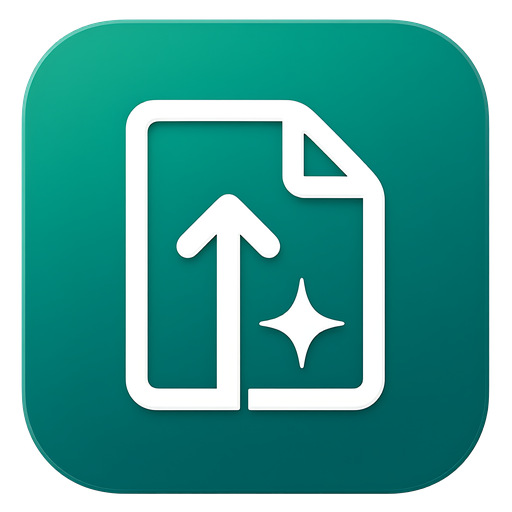
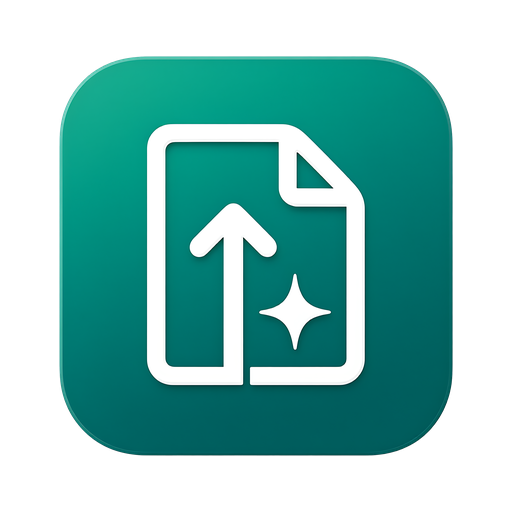
fix(T06016): 统一 11 张能力卡片图标内容区，修复卡片图标大小不一致

diff --git a/scripts/normalize-report-icons.py b/scripts/normalize-report-icons.py
@@ -1,0 +1,124 @@
+#!/usr/bin/env python3
+"""T06016：把 11 张 2048 源图标统一裁切/缩放为一致的 512 输出。
+
+问题：原生成图的透明画布内，彩色圆角方块占比不同（最大边长 1207~1902 像素），
+直接缩到 512 接入同一 30px 图标容器后，视觉上会出现“有的图标大、有的图标小”。
+
+做法：按 alpha 非透明边界裁切，保持宽高比缩放到固定内容区（默认 400/512，
+即约 78%），再居中放入透明画布。这样所有图标在同一容器内视觉尺寸一致。
+
+用法：
+  python scripts/normalize-report-icons.py           # 重新生成
+  python scripts/normalize-report-icons.py --check   # 只校验，不改文件
+"""
+
+from __future__ import annotations
+
+import argparse
+import sys
+from pathlib import Path
+
+from PIL import Image
+
+ROOT = Path(__file__).resolve().parents[1]
+SOURCE_DIR = ROOT / "docs" / "t06016" / "icons"
+WEB_DIR = ROOT / "web" / "src" / "assets" / "report-icons"
+DOCS_512_DIR = SOURCE_DIR
+
+KEYS = [
+    "ai-import",
+    "offline",
+    "ai-live",
+    "prd-gen",
+    "prd-import",
+    "tc-gen",
+    "kickoff-ppt",
+    "summary-ppt",
+    "review-lecture",
+    "git-extract",
+    "sonar-scan",
+]
+
+CANVAS = 512
+CONTENT = 400
+TOLERANCE = 1
+
+
+def alpha_bbox(im: Image.Image) -> tuple[int, int, int, int]:
+    bbox = im.getchannel("A").getbbox()
+    if bbox is None:
+        raise ValueError("图标没有非透明像素")
+    return bbox
+
+
+def normalized(im: Image.Image) -> Image.Image:
+    bbox = alpha_bbox(im)
+    crop = im.crop(bbox)
+    scale = CONTENT / max(crop.size)
+    size = (max(1, round(crop.width * scale)), max(1, round(crop.height * scale)))
+    resized = crop.resize(size, Image.Resampling.LANCZOS)
+    canvas = Image.new("RGBA", (CANVAS, CANVAS), (0, 0, 0, 0))
+    canvas.alpha_composite(resized, ((CANVAS - size[0]) // 2, (CANVAS - size[1]) // 2))
+    return canvas
+
+
+def check(path: Path) -> tuple[int, int, int, int]:
+    im = Image.open(path).convert("RGBA")
+    if im.size != (CANVAS, CANVAS):
+        raise ValueError(f"{path.name}: 期望 {CANVAS}x{CANVAS}，实际 {im.size}")
+    bbox = alpha_bbox(im)
+    max_side = max(bbox[2] - bbox[0], bbox[3] - bbox[1])
+    if abs(max_side - CONTENT) > TOLERANCE:
+        raise ValueError(f"{path.name}: 内容最大边 {max_side}px，期望 {CONTENT}px ±{TOLERANCE}")
+    return bbox
+
+
+def main() -> int:
+    parser = argparse.ArgumentParser()
+    parser.add_argument("--check", action="store_true", help="只校验，不写入文件")
+    args = parser.parse_args()
+
+    failures: list[str] = []
+    for key in KEYS:
+        src_2048 = SOURCE_DIR / f"{key}.png"
+        web = WEB_DIR / f"{key}.png"
+        docs_512 = DOCS_512_DIR / f"{key}-512.png"
+        # 优先用 2048 母版保证画质；干净检出没有 docs 母版时回退已接入的 512 资产，
+        # 归一化本身是幂等的，仍可复现并校验同一结果。
+        src = src_2048 if src_2048.exists() else web
+        if not src.exists():
+            failures.append(f"{key}: 缺少源图 {src_2048} / {web}")
+            continue
+        im = Image.open(src).convert("RGBA")
+        if im.size not in {(2048, 2048), (CANVAS, CANVAS)}:
+            failures.append(f"{key}: 源图尺寸应为 2048x2048 或 {CANVAS}x{CANVAS}，实际 {im.size}")
+            continue
+        if not args.check:
+            out = normalized(im)
+            web.parent.mkdir(parents=True, exist_ok=True)
+            out.save(web, "PNG", optimize=True)
+            if DOCS_512_DIR.exists():
+                out.save(docs_512, "PNG", optimize=True)
+        for path in (web, docs_512):
+            if path == docs_512 and not DOCS_512_DIR.exists():
+                continue
+            if not path.exists():
+                failures.append(f"{key}: 缺少输出 {path}")
+                continue
+            try:
+                bbox = check(path)
+                print(f"[OK] {key:14s} {path.relative_to(ROOT)} bbox={bbox}")
+            except Exception as exc:  # noqa: BLE001 - 输出统一失败原因
+                failures.append(f"{key}: {exc}")
+
+    if failures:
+        print("\n[T06016 图标归一化] 失败：", file=sys.stderr)
+        for failure in failures:
+            print(f" - {failure}", file=sys.stderr)
+        return 1
+    print(f"\n[T06016 图标归一化] {len(KEYS)} 张图标全部一致（内容区 {CONTENT}/{CANVAS}）")
+    return 0
+
+
+if __name__ == "__main__":
+    raise SystemExit(main())
